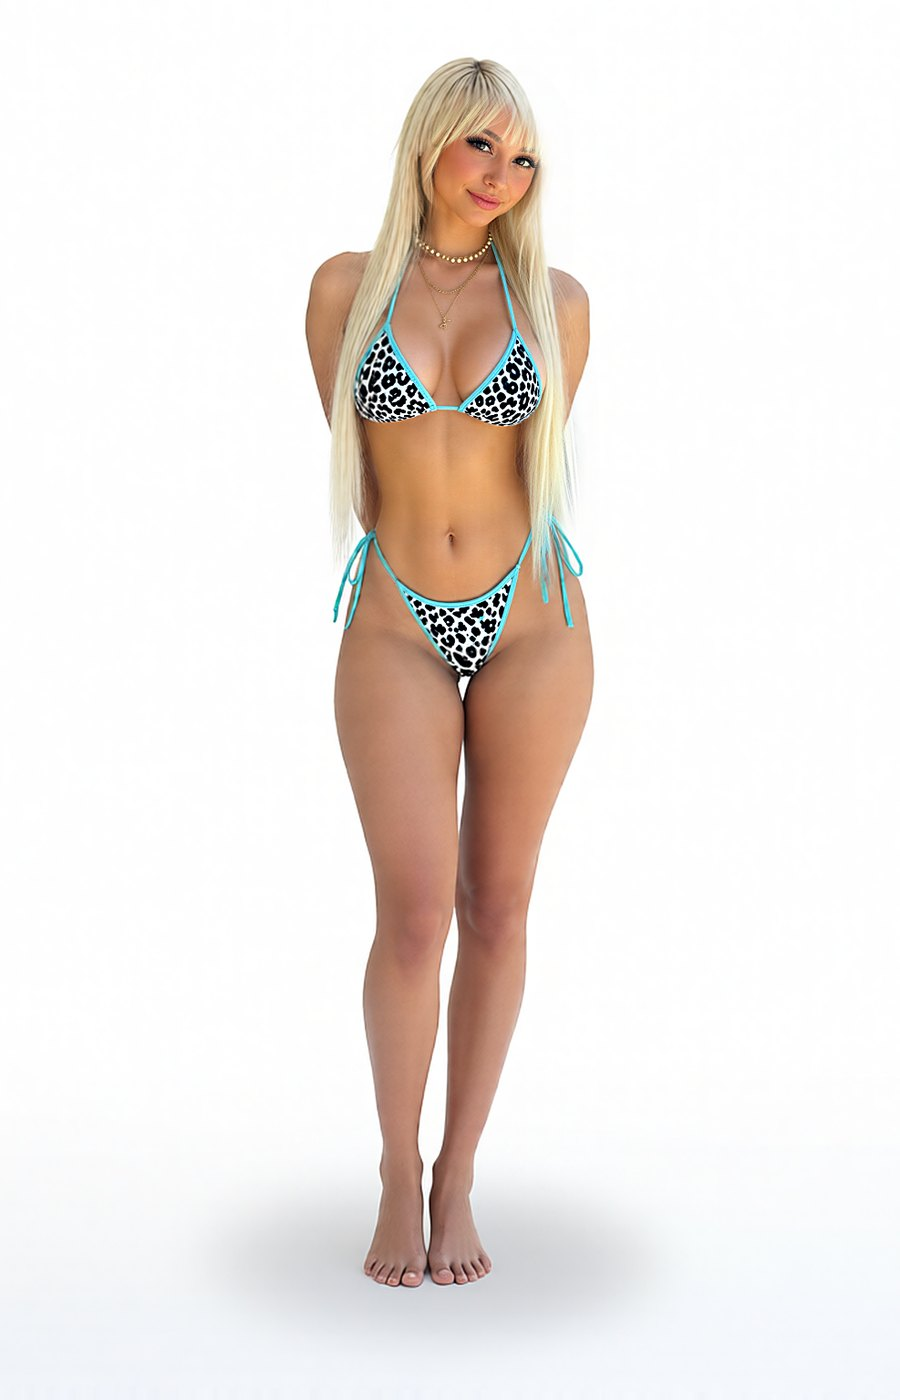
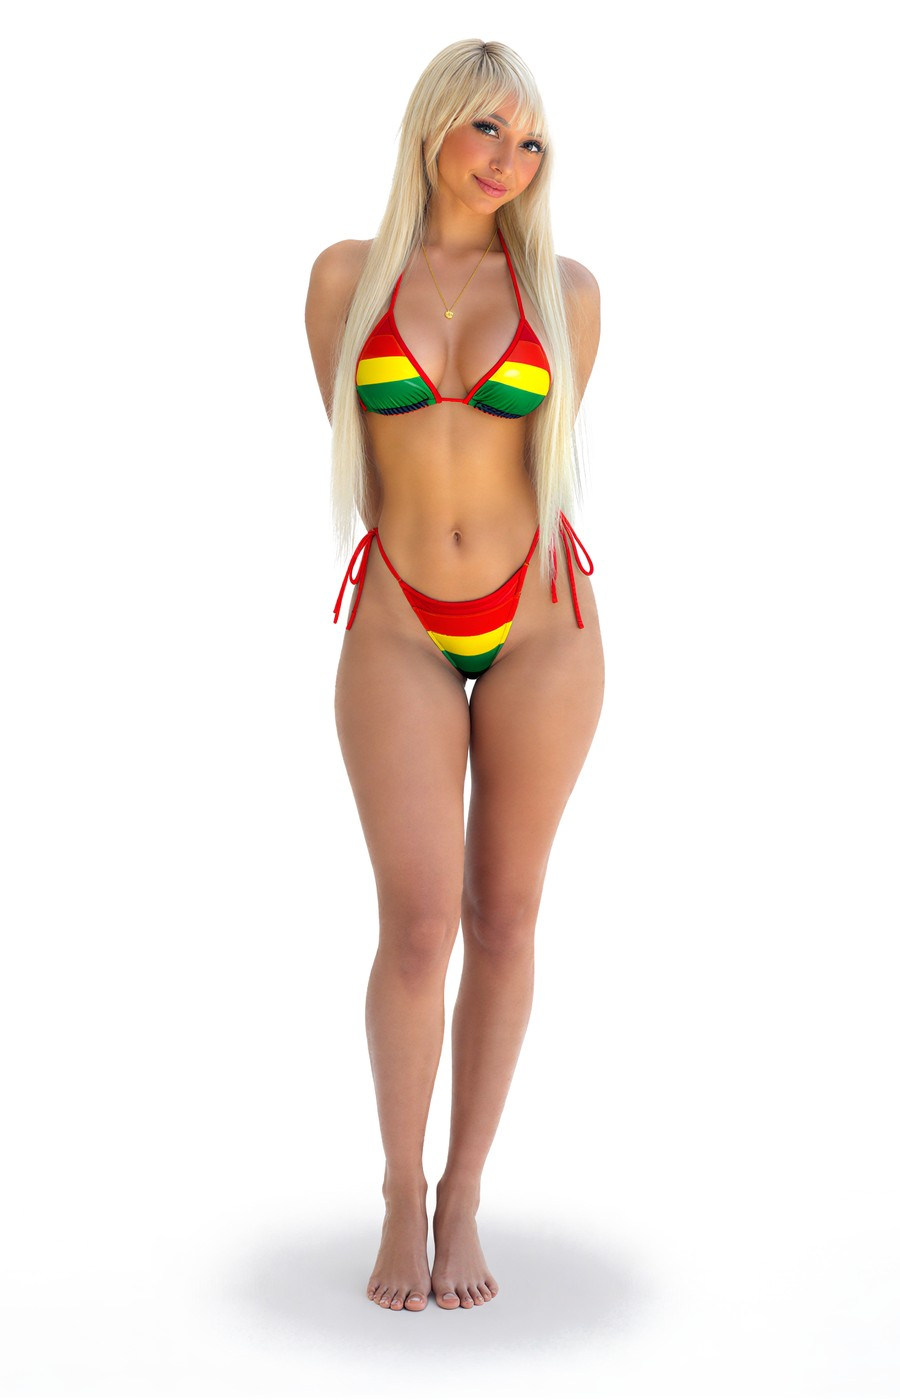
AI Influencer: Blonde Bree in a Rasta bikini with a tiny heart chain
Claude-Session: https://claude.ai/code/session_01Pn4hNDRWRVhm438Rr9UBh8

Changed region(s): [[0.3422, 0.0307, 0.6844, 0.9521], [0.4044, 0.6143, 0.4356, 0.7064], [0.4978, 0.3686, 0.5289, 0.3993]]

diff --git a/js/influencer-presets.js b/js/influencer-presets.js
@@ -73,7 +73,7 @@ window.AIRH_INF_PRESETS = [
     { id: "criss-p", name: "Criss P", tier: "normal", view: "card", t: { gender: ["male"], age: ["adult"], skin: ["tan"], build: ["muscular"], hair: ["bald"], facialhair: ["stubble"], accessories: ["glasses", "jewelry"], metal: ["gold"] },
       x: "Signature: clean shaven bald head, full round face, short trimmed beard and moustache, dark square black sunglasses with gradient lenses, a calm confident boss expression, standing tall and still. Outfit: black two-button blazer with a black and white patterned pocket square, plain tan v-neck t-shirt, a thick chunky gold Cuban link chain with a large iced-out lion head pendant, the lion's face and mane paved with white diamonds, gold outlines, red ruby eyes and an open roaring gold mouth, a two-tone silver and gold wristwatch, black straight-leg pants, polished black leather shoes" },
     { id: "blonde-bree", name: "Blonde Bree", tier: "normal", view: "card", t: { gender: ["female"], age: ["adult"], ethnicity: ["european"], skin: ["tan"], build: ["curvy"], hair: ["long"], haircolor: ["platinum"], eyecolor: ["hazel"], features: ["blush"], distinctive: ["lashes"], accessories: ["jewelry"] },
-      x: "Signature: very long straight platinum blonde hair with darker roots and full wispy curtain bangs, dramatic long false lashes, rosy flushed cheeks, glossy pink lips, a sweet shy closed-mouth smile with her head tilted slightly, hands clasped behind her back. Outfit: white and black leopard print string bikini with bright aqua blue trim and side-tie bottoms, a gold beaded choker, two layered dainty gold chain necklaces with a small gold cross pendant." },
+      x: "Signature: very long straight platinum blonde hair with darker roots and full wispy curtain bangs, dramatic long false lashes, rosy flushed cheeks, glossy pink lips, a sweet shy closed-mouth smile with her head tilted slightly, hands clasped behind her back. Outfit: Jamaican Rasta colored string bikini with bold red, gold-yellow and green stripes, red string straps and red side ties, a single very thin delicate gold chain necklace with one tiny gold heart pendant." },
     { id: "pink-pixie", name: "Pink Pixie", tier: "normal", view: "card", t: { gender: ["female"], age: ["adult"], ethnicity: ["european"], skin: ["fair"], build: ["slim"], hair: ["long"], haircolor: ["pink"], eyecolor: ["green"], features: ["blush"], distinctive: ["lashes"] },
       x: "Signature: very long voluminous wavy pastel pink hair swept to one side, smoky eye makeup with long lashes, rosy cheeks, glossy pink lips, a huge bright toothy smile with her head tilted playfully. Outfit: white cropped camisole with a pink rose print, white lace trim and a small pink satin ribbon bow, matching pink rose print pajama shorts, fluffy white slippers" },
     { id: "selfie-sienna", name: "Selfie Sienna", tier: "normal", view: "card", t: { gender: ["female"], age: ["adult"], ethnicity: ["mixed"], skin: ["tan"], build: ["athletic"], hair: ["long"], haircolor: ["darkbrown"], style: ["y2k"], accessories: ["jewelry"] },

diff --git a/admin.html b/admin.html
@@ -342,7 +342,7 @@
 <script src="js/admin.js"></script>
 <script src="js/admin-thumbs.js"></script>
 <script src="js/admin-site.js"></script>
-<script src="js/influencer-presets.js?v=20261020b"></script>
+<script src="js/influencer-presets.js?v=20261021a"></script>
 <script src="js/admin-inforder.js"></script>
 <script src="js/admin-motionpresets.js?v=20261018c"></script>
 <script src="js/admin-contentguard.js?v=20261020a"></script>

diff --git a/influencer.html b/influencer.html
@@ -479,7 +479,7 @@
 <script src="js/main.js"></script>
 <script src="js/auth-nav.js"></script>
 <script src="js/render-status.js"></script>
-<script src="js/influencer-presets.js?v=20261020b"></script>
+<script src="js/influencer-presets.js?v=20261021a"></script>
 <script src="js/influencer.js?v=20261020a"></script>
 </body>
 </html>
